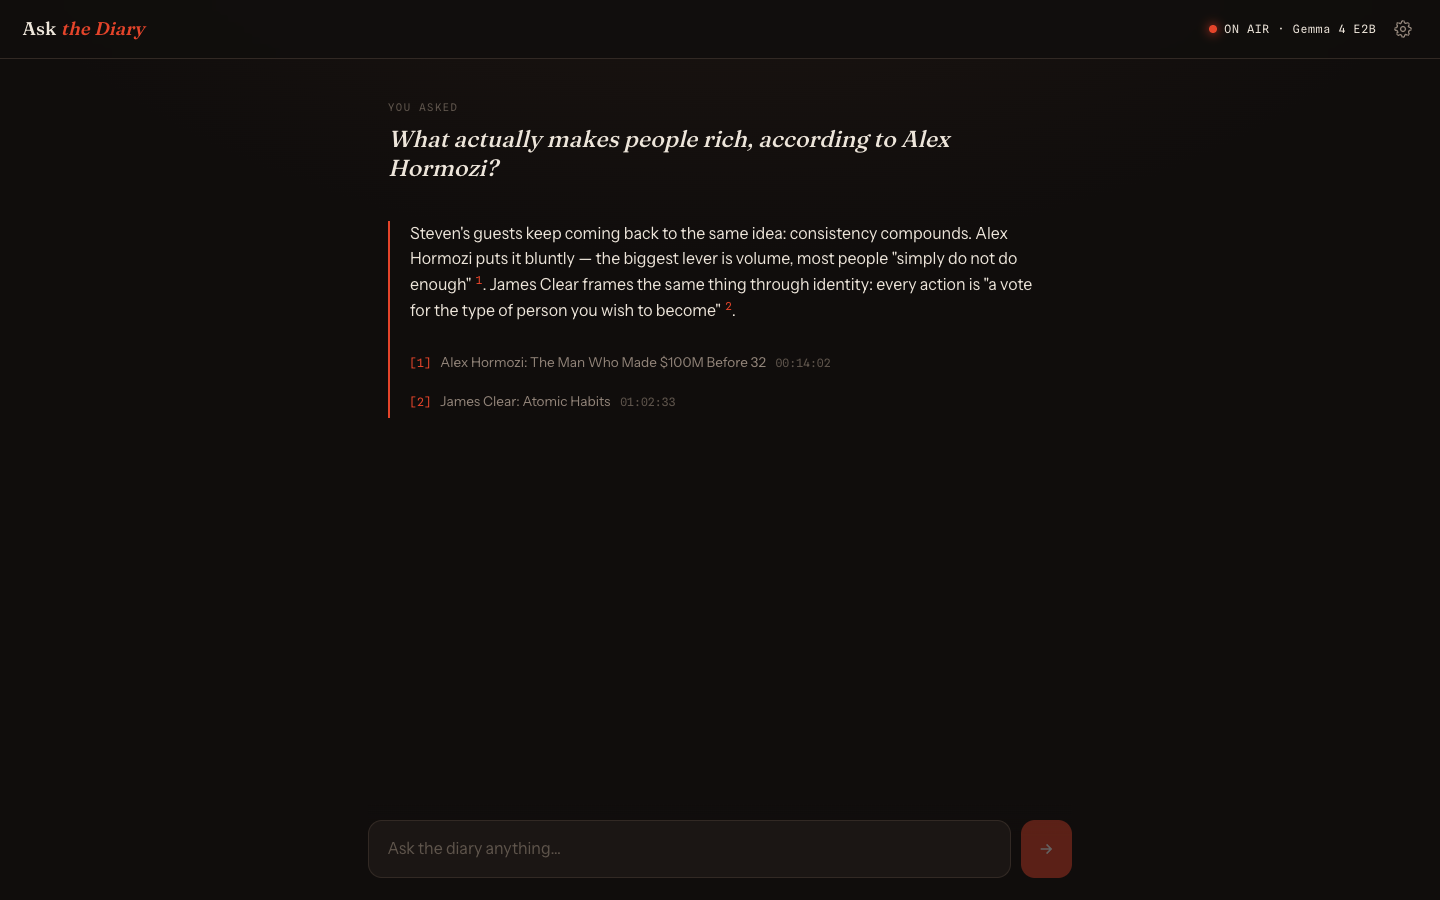
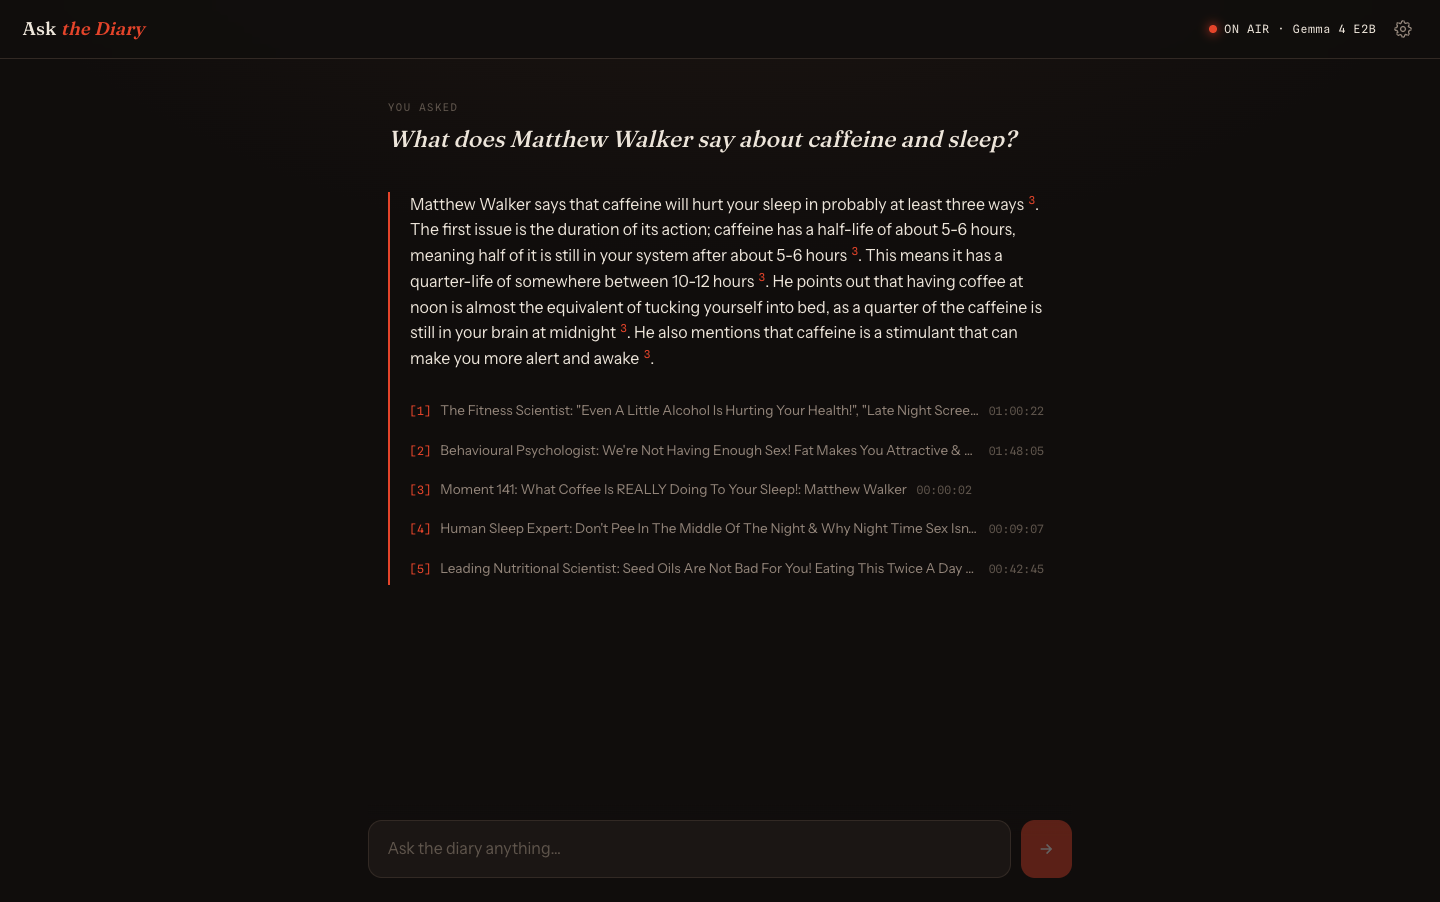
fix: service worker install (shell path + resilient asset caching) — offline verified
Root cause of every cache miss: cache.addAll included /index.html, which the
static host only serves for navigations → install 404 → worker permanently
redundant → 2GB model re-downloaded every visit. Shell is now cached as '/',
transcripts are best-effort, and E2E proves it: reload-to-ready 4.2s (was
147s), fully offline reload 3.9s. Real answered-state screenshot in docs.

Claude-Session: https://claude.ai/code/session_01ADs2bJUaE8uqUeuY7gAFmY

diff --git a/src/service-worker.ts b/src/service-worker.ts
@@ -13,15 +13,20 @@ const sw = self as unknown as ServiceWorkerGlobalScope;
 
 const APP_CACHE = `ask-doac-app-${version}`;
 const MODEL_CACHE = 'ask-doac-models-v1';
-// App shell: the SPA fallback page plus all build + static assets.
-const SHELL = '/index.html';
+// App shell: the SPA fallback page (served at '/') plus build + static assets.
+const SHELL = '/';
 const APP_ASSETS = [SHELL, ...build, ...files];
 
 sw.addEventListener('install', (event) => {
 	event.waitUntil(
 		caches
 			.open(APP_CACHE)
-			.then((cache) => cache.addAll(APP_ASSETS))
+			.then(async (cache) => {
+				// Shell + build must cache; static data files are best-effort so a
+				// single bad URL can't leave the worker permanently redundant.
+				await cache.addAll([SHELL, ...build]);
+				await Promise.allSettled(files.map((f) => cache.add(f)));
+			})
 			.then(() => sw.skipWaiting())
 	);
 });
